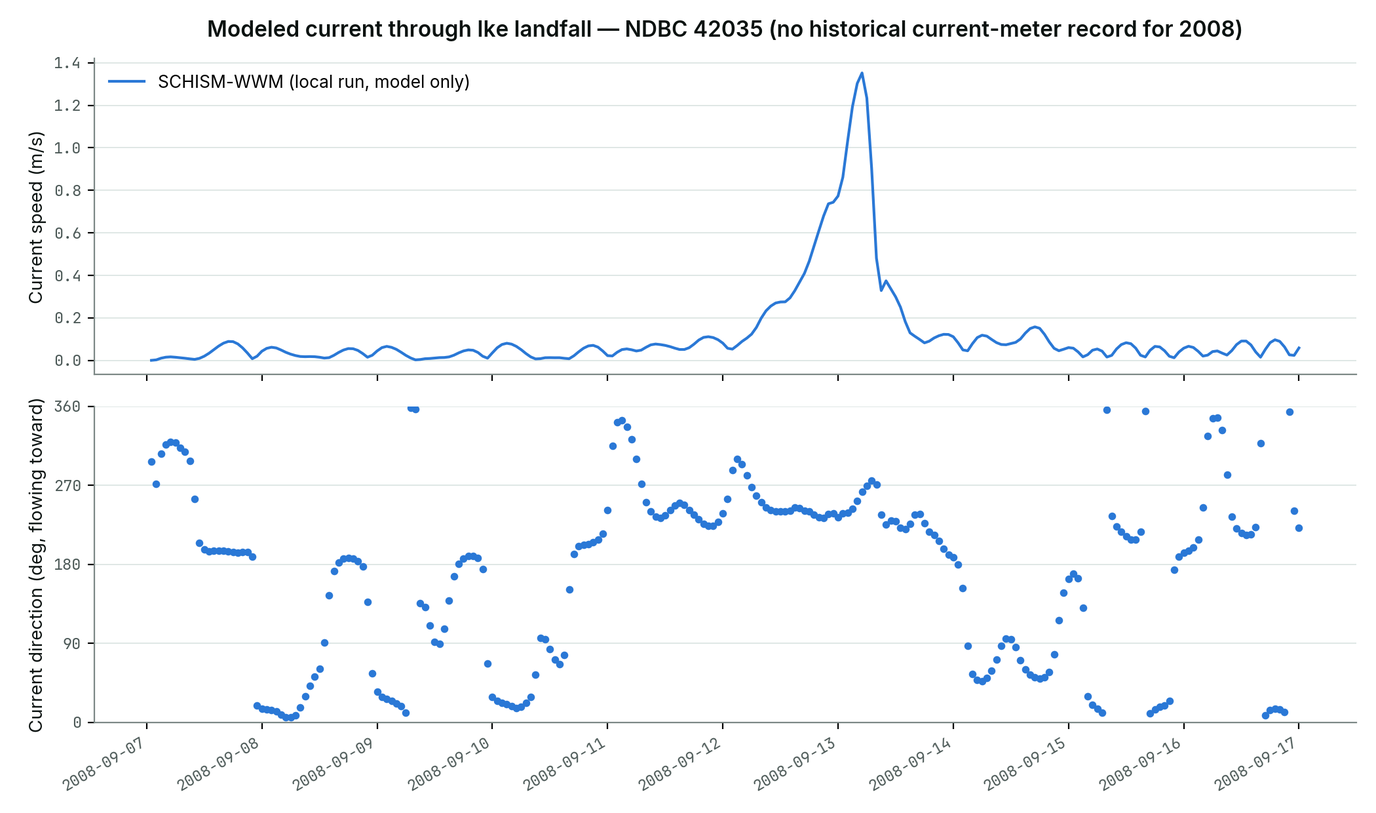
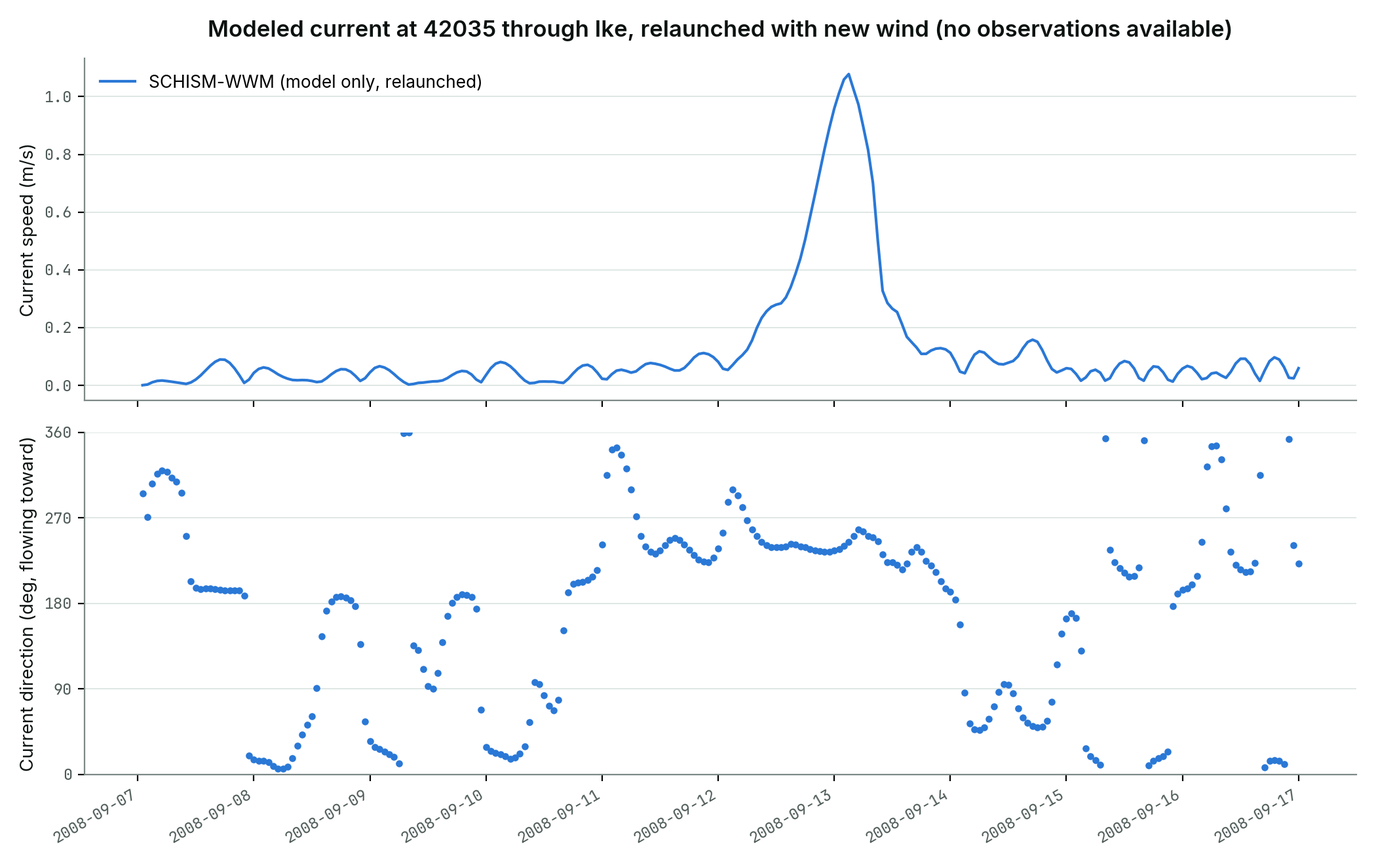
Ike: relaunch local domain with new pywaves GAHM+ERA5 wind
Cuts peak-wind RMSE at NDBC 42035 by ~40% (53->34 m/s vs 27.9 observed),
but the local storm-surge peak drops further from observed at every
Galveston gauge (Pier 21: 88%->66% of the recorded peak). The old,
overly strong wind was an accidental compensating error masking a
separate surge shortfall; fixing the wind exposed it instead of closing
it. Local wave height barely changes (r 0.876->0.889), since the
run's wave-boundary spectra still come from the original, pre-cap-fix
Gulf-parent run.

Claude-Session: https://claude.ai/code/session_019HhJ14FLY5shXvj8i5ta22

diff --git a/site/content/portfolio/independent-projects/hurricane-ike-schism-wwm-nested-validation.md b/site/content/portfolio/independent-projects/hurricane-ike-schism-wwm-nested-validation.md
@@ -3,8 +3,8 @@ title: "Coupled Wave-Surge Model Validation: Hurricane Ike (SCHISM-WWM)"
 date: 2026-01-01
 description: "A nested Gulf-of-Mexico-to-Galveston SCHISM-WWM hindcast of Hurricane Ike (2008): wave, wind, current, and datum-corrected storm-surge validation at Gulf buoys and Galveston gauges, a wind-forcing bug whose fix repaired the storm's structure but not its intensity, and an offshore-boundary fix that recovered lost wave energy."
 challenge: "Ike was a much larger, more intense storm than Harvey, and reusing wind-forcing and boundary settings tuned for Harvey without re-checking them against a storm of a very different character risked quietly wrong results rather than an obvious crash."
-approach: "Ran the same nested-domain strategy used for Harvey — a Gulf-of-Mexico regional SCHISM-WWM hindcast feeding a high-resolution local Galveston domain — against Hurricane Ike, and checked every stage against eight Gulf NDBC buoys, NDBC buoy 42035 and the local CO-OPS water-level network. ADCIRC-SWAN is not included here: that companion run has not yet completed successfully for Ike."
-result: "Found a real wind-forcing bug (a safety cap tuned for Harvey applied to a very different storm). The fix restores the eye lull and the timing of the wind maximum, but modeled winds near the storm core are still about 1.7–1.9x too strong. Across eight Gulf buoys the wave field is well captured in timing and shape (correlation 0.93–0.99 at seven), with peaks close on the shelf and slope but 40–47% too high at the two open-ocean buoys nearest the core. Wind speed and direction, peak wave period and mean wave direction at the Gulf buoys are also captured well (wind and Tp correlation mostly 0.85–0.98, direction errors of roughly 10–30°), but the 2D barotropic model cannot reproduce the observed deep-water current at 42002. Local-domain wave height at buoy 42035 correlates well with observations (r=0.88), and storm-surge bias drops substantially once corrected for a bathymetric datum mismatch, reaching about 88% of the recorded peak at Galveston Pier 21. Tidal current at the Bay Entrance is only about half of NOAA's predicted speed — the same shortfall found for Harvey, on a different mesh. The local domain's own simulation still needs to be relaunched with the corrected wind before these numbers reflect that fix too."
+approach: "Ran the same nested-domain strategy used for Harvey — a Gulf-of-Mexico regional SCHISM-WWM hindcast feeding a high-resolution local Galveston domain — against Hurricane Ike, and checked every stage against eight Gulf NDBC buoys, NDBC buoy 42035 and the local CO-OPS water-level network. Later relaunched the local domain with an improved wind blend and rescored it against the same observations. ADCIRC-SWAN is not included here: that companion run has not yet completed successfully for Ike."
+result: "Found a real wind-forcing bug (a safety cap tuned for Harvey applied to a very different storm), then, separately, integrated a better GAHM+ERA5 wind blend shared with this project's SWAN/WW3 workflows and relaunched the local Galveston domain with it. The new local wind cuts peak-wind RMSE at buoy 42035 by about 40% (53 → 34 m/s vs. 27.9 m/s observed). Local wave height still correlates well with observations (r=0.89), but storm surge got *worse*, not better: with the old, overly strong wind the model reached 88% of the recorded peak at Galveston Pier 21; with the corrected, weaker wind it reaches 66%, and every one of five gauges moved further from its observed peak. The old wind's overestimate had been silently compensating for a separate surge shortfall — fixing one bug exposed another. Across eight Gulf buoys (a separate, not-yet-relaunched parent run) the wave field is well captured in timing and shape (correlation 0.93–0.99 at seven), wind and peak-period correlation are mostly 0.85–0.98, and the 2D barotropic model cannot reproduce the observed deep-water current at 42002. Tidal current at the Bay Entrance is still only about half of NOAA's predicted speed — the same shortfall found for Harvey, on a different mesh."
 tags: ["SCHISM", "WWM", "storm surge", "wave modeling", "current validation", "Hurricane Ike", "deep-water wave validation", "wind validation", "nested modeling", "GAHM wind forcing"]
 link: ""
 image: "/img/portfolio/hurricane-ike-schism-wwm/ike_mesh_nested.png"
@@ -22,11 +22,11 @@ The Gulf-of-Mexico run surfaced a real wind-forcing bug: the GAHM vortex model's
 
 The fix makes the cap intensity-aware: when HURDAT2 reports both r50 and r64 wind radii for a quadrant (real evidence of organized hurricane-force structure, which Harvey's stall phase never had), the cap follows an r64-anchored profile fit instead of a flat multiplier — never tighter than the original cap, so Harvey's case is unaffected. Rerunning the Gulf-of-Mexico domain with the fix reproduces the wind lull as Ike's eye passed almost directly over the buoy — confirmed independently by the buoy's own barometric pressure nearly matching HURDAT2's official central pressure at that time — and puts the second wind maximum at the right hour (09:00 UTC against 08:50 observed). It does not fix the intensity. Checked against the forcing files themselves, the modeled peak at 42035 is still about 53 m/s against 27.9 m/s observed, and winds on either side of the lull remain roughly twice the observed values; the same overestimate appears at buoy 42001 (about 52 m/s against 30 m/s), and it is the likely reason the deep-water waves there come out too high, below. So the fix repaired the *structure* of the wind field, not its strength.
 
-The local Galveston domain's own wind field has been regenerated with this same fix, but the local simulation itself hasn't been relaunched yet — so the wave, current, and storm-surge results below all still reflect the pre-fix wind. They're shown as the best currently-available local-domain results, not final validated numbers.
+**Update: the local domain has since been relaunched with a better wind altogether.** Separately from the cap fix above, this project's wind generation was rebuilt around the same GAHM+ERA5 blend used by the SWAN and WW3 workflows (`pywaves.common.gahm`), which fits both the Holland profile's radius and shape parameter per quadrant and caps peak wind at 1.05x the storm's reported intensity rather than 1.25x. At buoy 42035, this cuts the local wind's peak from about 53 m/s (the cap-fixed wind above) to about 34 m/s against 27.9 m/s observed, and its RMSE from 5.2 to 3.2 m/s. The local Galveston domain was relaunched with this wind, and the wave, current, and storm-surge sections below reflect that relaunched run. One thing did *not* change: the run's incoming wave-boundary spectra, generated from the Gulf-of-Mexico parent run's own wave output, still reflect the *original*, pre-cap-fix wind — regenerating them would mean rerunning the 10-day Gulf-of-Mexico domain, which hasn't been done. So the local wind is now good, but part of what crosses the open boundary as waves is still built on the oldest, least accurate wind of the three.
 
 ## Deep-water wave validation across the Gulf
 
-The Gulf-of-Mexico parent run — the domain that feeds the local Galveston mesh — can be checked against NDBC buoys from the open ocean to the shelf. Nine of the ten buoys in the model's station list have 2008 records (42012 doesn't); 42035 is only 15 m deep and is covered by the local-domain validation below. That leaves eight: three in deep water (3,100–3,600 m), two on the continental slope (180–300 m) and three on the shelf (50–85 m). Two versions of the Gulf run are shown, one with the original wind field and one with the wind fix described above. The configuration is otherwise the same, apart from a regenerated wave-boundary file.
+The Gulf-of-Mexico parent run — the domain that feeds the local Galveston mesh — can be checked against NDBC buoys from the open ocean to the shelf. Nine of the ten buoys in the model's station list have 2008 records (42012 doesn't); 42035 is only 15 m deep and is covered by the local-domain validation below. That leaves eight: three in deep water (3,100–3,600 m), two on the continental slope (180–300 m) and three on the shelf (50–85 m). Two versions of the Gulf run are shown, one with the original wind field and one with the wind fix described above. The configuration is otherwise the same, apart from a regenerated wave-boundary file. (This section predates the pywaves wind relaunch described above; the Gulf-of-Mexico parent run itself hasn't been rerun with the newer wind, only the local Galveston domain has — see the local wave, current and storm-surge sections below.)
 
 ![Significant wave height at eight Gulf of Mexico buoys through Hurricane Ike, ordered from deep water to shelf: observed vs SCHISM-WWM with the original and the wind-fixed wind field](/img/portfolio/hurricane-ike-schism-wwm/ike_gulf_hs_buoys.png)
 *Fig. 2 — Significant wave height at eight Gulf buoys, deepest first: observed (black), original-wind run (dashed), wind-fixed run (blue). The statistics in each panel are for the wind-fixed run over Sept 7–17.*
@@ -94,46 +94,50 @@ A disagreement of nearly 180° can also come from a sign or convention error, so
 ## Wave validation: the local domain
 
 ![Significant wave height time series at NDBC buoy 42035 through Hurricane Ike landfall: observed vs SCHISM-WWM local domain run](/img/portfolio/hurricane-ike-schism-wwm/ike_wave_42035_local.png)
-*Fig. 7 — Wave height at buoy 42035 (r=0.88, RMSE 0.82 m, bias −0.27 m). The model tracks the storm's wave buildup and decay well; how the pending wind-fix rerun will change these numbers isn't yet known.*
+*Fig. 7 — Wave height at buoy 42035, relaunched with the new local wind (r=0.89, RMSE 0.80 m, bias −0.28 m). Barely different from the pre-relaunch run (r=0.88, RMSE 0.82 m) — expected, since the boundary spectra feeding this run's incoming wave energy still reflect the old wind (see above), and local wind mainly affects the near-buoy wind-sea component.*
 
 ## Current at the Bay Entrance
 
 No current-meter record exists near Galveston for Ike. I checked all seven CO-OPS current stations near Galveston, including the Bay Entrance Channel meter used for the Harvey comparison, and none has data for September 2008 (that meter dates from 2011). What does exist is NOAA's harmonic, tide-only current prediction for the same station. Predictions aren't observations, but they can be checked: on Harvey's tide-only days (Aug 21–24, 2017) the prediction matches the real current-meter record closely — mean speed 0.38 m/s predicted against 0.42 m/s observed, correlation 0.93. That makes it a fair benchmark for Ike's own tide-only days, Sept 7–10, before the storm's effects reach the coast.
 
 ![Current speed at the Galveston Bay Entrance Channel through Hurricane Ike: SCHISM-WWM local domain vs NOAA's tide-only prediction, with the model's tide-averaged flow along the channel below](/img/portfolio/hurricane-ike-schism-wwm/ike_current_entrance.png)
-*Fig. 8 — Current at the Bay Entrance Channel. Top: SCHISM-WWM (2D, depth-averaged) against NOAA's tide-only prediction. Bottom: the model's tide-averaged flow along the channel, positive out of the bay (model only). Over the tide-only days (shaded) the model's mean speed is 0.23 m/s against 0.47 m/s predicted — half — with a correlation of 0.77.*
+*Fig. 8 — Current at the Bay Entrance Channel, relaunched run. Top: SCHISM-WWM (2D, depth-averaged) against NOAA's tide-only prediction. Bottom: the model's tide-averaged flow along the channel, positive out of the bay (model only). Over the tide-only days (shaded) the model's mean speed is 0.23 m/s against 0.47 m/s predicted — half — with a correlation of 0.77, unchanged from the pre-relaunch run: this window is well before landfall, where the new and old wind are nearly identical.*
 
-That is the same shortfall found on the [Harvey page](/portfolio/independent-projects/wave-surge-model-intercomparison/) (0.48 of the observed speed there), and it appears here on a different local mesh. Short reruns of the Harvey setup point to the model's smoothing settings (a Shapiro filter and horizontal viscosity) as the main cause, and this run uses the same settings. Once the storm arrives there is nothing to score the model against. It shows the bay filling before landfall (tide-averaged flow reaching about 0.28 m/s into the bay), a brief speed spike near 1.0 m/s at landfall, and a drain of about 0.45 m/s out of the bay on Sept 14. The run has no river or rainfall inflow — the term that was largely missing for Harvey's storm-time outflow — and how large it would be for Ike is unknown, so those storm-time magnitudes are model-only numbers, not validated ones.
+That is the same shortfall found on the [Harvey page](/portfolio/independent-projects/wave-surge-model-intercomparison/) (0.48 of the observed speed there), and it appears here on a different local mesh. Short reruns of the Harvey setup point to the model's smoothing settings (a Shapiro filter and horizontal viscosity) as the main cause, and this run uses the same settings. Once the storm arrives there is nothing to score the model against; with the new wind the storm-time numbers are somewhat smaller than before — the bay fills to about 0.21 m/s into the bay (was 0.28), a peak instantaneous speed of 0.96 m/s near landfall (was about 1.0), and a drain of about 0.40 m/s out of the bay on Sept 14 (was 0.45). The run has no river or rainfall inflow — the term that was largely missing for Harvey's storm-time outflow — and how large it would be for Ike is unknown, so those storm-time magnitudes are model-only numbers, not validated ones.
 
 ## Storm surge: correcting the reference level
 
 The raw model-vs-observed water-level comparison carried a substantial negative bias at every station — up to 0.87 m at the worst one. Part of that traces to a genuine bathymetric datum mismatch: NOAA's Coastal Relief Model, despite being labeled MSL/EGM2008, retains its original bathymetric source data referenced to MLLW/MLW instead. Pulling each station's own MSL−MLLW offset from CO-OPS's datum API (0.18–0.30 m depending on station) and applying it to the model's output — shifting it onto the same MSL reference the observations use — recovers a substantial share of that bias.
 
-![Bar chart comparing storm-surge bias before and after the bathymetric-datum correction, 5 Galveston-area CO-OPS stations, Hurricane Ike](/img/portfolio/hurricane-ike-schism-wwm/ike_wlev_bias_correction.png)
-*Fig. 9 — Storm-surge bias before and after the datum correction, all 5 available stations. The correction cuts bias by roughly 25–50% (about 45–48% at Morgans Point, the Bay Entrance and Pier 21, 26% at Rollover Pass and Eagle Point) — a real, mechanical fix, not a tuning knob — though a negative bias remains at every station.*
+**Fixing the wind made the surge worse, not better — an important, honest finding.** With the old, overly strong wind, the model happened to reach 88% of the recorded surge peak at Pier 21. With the corrected, weaker local wind, it reaches only 66%, and the gap widens at every one of the five gauges. The old wind's excess strength had been an accidental, compensating error, silently making up for a separate surge shortfall the model has independent of the wind. Removing the wind bias exposes that shortfall rather than fixing it.
 
-| Station | Offset applied | Bias (raw → corrected) | RMSE (raw → corrected) | Corr |
+![Bar chart comparing observed, pre-relaunch, and relaunched storm-surge peaks at 5 Galveston-area CO-OPS stations, Hurricane Ike, datum-corrected](/img/portfolio/hurricane-ike-schism-wwm/ike_wlev_bias_correction.png)
+*Fig. 9 — Peak storm-surge water level, datum-corrected: observed vs. the pre-relaunch (old wind) and relaunched (new wind) runs. The new wind's peak is lower than the old wind's peak at every station, moving further from the observed value in each case.*
+
+| Station | Offset applied | Bias, raw → corrected (relaunched) | RMSE, raw → corrected (relaunched) | Corr (relaunched) | Corr (pre-relaunch) |
+|---|---|---|---|---|---|
+| Morgans Point | +0.22 m | −0.63 → −0.41 m | 0.90 → 0.76 m | 0.23 | 0.80 |
+| Rollover Pass | +0.23 m | −1.68 → −1.45 m | 2.12 → 1.95 m | 0.37 | 0.04 |
+| Eagle Point | +0.18 m | −0.72 → −0.53 m | 0.83 → 0.68 m | 0.89 | 0.90 |
+| Bay Entrance (N. Jetty) | +0.30 m | −1.39 → −1.10 m | 1.75 → 1.53 m | 0.35 | 0.87 |
+| Galveston Pier 21 | +0.25 m | −0.62 → −0.37 m | 0.68 → 0.47 m | 0.95 | 0.93 |
+
+Bias and RMSE got worse, not just the peak — the datum correction still helps by the same mechanical amount, but there's more error left for it to correct. Correlation moved in different directions by station, and not always for a reason I can explain. At Pier 21 and Eagle Point it stayed about the same or improved slightly; at Morgans Point it collapsed from 0.80 to 0.23, but that station's peak is tiny either way (0.24–0.34 m modeled against 2.55 m observed, see the peak table below), so its correlation was always the timing of a small, noisy signal. At the Bay Entrance, though, correlation fell from 0.87 to 0.35 despite a real, multi-meter signal — I don't have an explanation for that yet, and I'm reporting it rather than papering over it. Rollover Pass barely responds at all in either run — the same station that barely responds in the Harvey local run (see the [companion write-up](/portfolio/independent-projects/wave-surge-model-intercomparison/)), which suggests, though it hasn't been confirmed, that the cause is how the mesh represents these bay-head locations rather than the storm or the wind.
+
+| Station | Observed peak (MSL) | Peak, pre-relaunch → relaunched | Peak captured, pre-relaunch → relaunched | Peak timing, relaunched (model − obs) |
 |---|---|---|---|---|
-| Morgans Point | +0.22 m | −0.46 → −0.24 m | 0.63 → 0.49 m | 0.80 |
-| Rollover Pass | +0.23 m | −0.87 → −0.65 m | 1.17 → 1.01 m | 0.04 |
-| Eagle Point | +0.18 m | −0.72 → −0.53 m | 0.83 → 0.68 m | 0.90 |
-| Bay Entrance (N. Jetty) | +0.30 m | −0.62 → −0.32 m | 0.70 → 0.46 m | 0.87 |
-| Galveston Pier 21 | +0.25 m | −0.56 → −0.31 m | 0.64 → 0.43 m | 0.93 |
+| Galveston Pier 21 | 2.86 m (Sep 13, 03:00; 5-hour gap in the record around it) | 2.52 → 1.89 m | 88% → 66% | +6 h |
+| Eagle Point | 3.33 m (Sep 13, 06:00) | 1.89 → 1.42 m | 57% → 43% | +0 h |
+| Morgans Point | 2.55 m (Sep 13, 07:00) | 0.34 → 0.24 m | 13% → 9% | +0 h |
+| Bay Entrance (N. Jetty) | gauge failed around 02:00 on Sep 13, before the peak | 2.90 → 2.24 m | not scorable | +8 h |
+| Rollover Pass | record incomplete (156 of 240 hours); its recorded maximum falls on Sep 16, after the storm | 1.78 → 1.59 m | not scorable | −6 h |
 
-Correlation only measures timing, and two of these gauges show why that isn't enough. At Morgans Point the model's peak is only +0.12 m against 2.55 m observed, so its 0.80 correlation is the timing of a tiny signal. Rollover Pass barely responds at all — the same station that barely responds in the Harvey local run (see the [companion write-up](/portfolio/independent-projects/wave-surge-model-intercomparison/)), which suggests, though it hasn't been confirmed, that the cause is how the mesh represents these bay-head locations rather than the storm. The peak water levels show the rest:
+Observed peaks at gauges that failed or have gaps near the peak are lower bounds, so the captured fractions above are, if anything, generous to the model. At the open-coast gauge with a nearly complete record, Pier 21, the relaunched model reaches two-thirds of the surge, down from most of it; on the bay's own shore at Eagle Point it reaches less than half, against about 83% at the same gauge for Harvey. The two bay-head gauges fail in both storms and both wind versions.
 
-| Station | Observed peak (MSL) | Model peak, raw → datum-corrected | Peak captured | Peak timing (model − obs) |
-|---|---|---|---|---|
-| Galveston Pier 21 | 2.86 m (Sep 13, 03:00; 5-hour gap in the record around it) | 2.27 → 2.52 m | 88% | +5 h |
-| Eagle Point | 3.33 m (Sep 13, 06:00) | 1.71 → 1.89 m | 57% | +1 h |
-| Morgans Point | 2.55 m (Sep 13, 07:00) | 0.12 → 0.34 m | 13% | +2 h |
-| Bay Entrance (N. Jetty) | gauge failed around 02:00 on Sep 13, before the peak | 2.60 → 2.90 m | not scorable | — |
-| Rollover Pass | record incomplete (156 of 240 hours); its recorded maximum falls on Sep 16, after the storm | −0.29 → −0.06 m | not scorable | — |
+![Storm-surge water-level time series at Galveston Pier 21 through Hurricane Ike, datum-corrected: observed vs. pre-relaunch and relaunched SCHISM-WWM local domain runs](/img/portfolio/hurricane-ike-schism-wwm/ike_wlev_pier21_corrected.png)
+*Fig. 10 — Storm-surge water level at Galveston Pier 21, datum-corrected (r=0.95, relaunched run). The relaunched model's peak (1.89 m) sits well below both the observed peak (2.86 m) and the pre-relaunch run's peak (2.52 m) — visible confirmation that removing the wind's overestimate removed a real, if inadvertent, source of accuracy.*
 
-Observed peaks at gauges that failed or have gaps near the peak are lower bounds, so the captured fractions for Pier 21 in particular are, if anything, generous. At the open-coast gauge with a nearly complete record, Pier 21, the corrected model reaches most of the surge; on the bay's own shore at Eagle Point it reaches a little over half, against about 83% at the same gauge for Harvey. The two bay-head gauges fail in both storms.
-
-![Storm-surge water-level time series at Galveston Pier 21 through Hurricane Ike, datum-corrected: observed vs. SCHISM-WWM local domain run](/img/portfolio/hurricane-ike-schism-wwm/ike_wlev_pier21_corrected.png)
-*Fig. 10 — Storm-surge water level at Galveston Pier 21, datum-corrected (r=0.93). The corrected model reaches about 88% of the recorded peak (2.52 vs. 2.86 m), about five hours late, though the gauge has a five-hour gap around the peak. Whether the pending wind-fix rerun raises or lowers this is not yet known: the old wind bug overestimated wind at the offshore buoy, which would push surge up, not down.*
+That leaves an open question this write-up doesn't answer: something other than wind strength is holding this run's surge peak down at every gauge, by roughly a third to a half once the datum and the wind are both corrected. Candidates include the same smoothing settings (Shapiro filter, horizontal viscosity) flagged for the weak tidal current below, the stale wave-boundary spectra noted above, or a genuine gap in the surge physics; distinguishing between them needs more runs than this one.
 
 ## Fixing the offshore boundary
 
@@ -152,6 +156,6 @@ Diagnosing this also surfaced a separate, genuine finding, not a bug: raw retent
 
 ## Where this leaves the project
 
-The wind-forcing fix has repaired the *structure* of the Gulf-scale wind field (the eye lull and the timing of the second maximum), but winds near the storm core are still about 1.7–1.9x too strong, which shows up as too-high waves at the deep buoys. The offshore-boundary fix has already been carried into the mesh used throughout, and the datum correction resolves a real, mechanical share of the surge bias. What remains: correcting the wind intensity near the core, relaunching the local Galveston domain against the corrected wind field so wave, current, and storm-surge numbers all reflect it, and getting ADCIRC-SWAN's Ike setup past its current instability so a full two-model comparison — like the one already done for Harvey — becomes possible for this storm too. Two problems shared with the Harvey local run also remain open: tidal currents at the Bay Entrance are about half of the predicted speed, and the bay-head gauges at Morgans Point and Rollover Pass barely respond. In deep water, the 2D barotropic run cannot reproduce the observed ambient current at all (checked at 42002), so any deep-water current validation would need a 3D baroclinic run with ocean boundary data.
+The Gulf-scale wind-forcing fix repaired the *structure* of the wind field (the eye lull and the timing of the second maximum) but not its strength near the core, which still shows up as too-high waves at the deep buoys there — that comparison hasn't been rerun since. On the local domain, a further, independent wind improvement (the pywaves GAHM+ERA5 blend, shared with this project's SWAN and WW3 workflows) cut peak-wind error at buoy 42035 by about 40%, and the local domain has now been relaunched with it. That relaunch produced this write-up's most important finding: fixing the wind made the local storm surge *worse* at every gauge, because the old wind's overestimate had been silently compensating for a separate surge deficit. What the relaunched run reaches is still substantial — two-thirds of the observed peak at Pier 21 — but the search for that separate deficit (candidates: the smoothing settings noted below, the still-stale wave-boundary spectra, or a genuine gap in the surge physics) is now the real open problem, ahead of correcting the Gulf-scale wind intensity or regenerating the boundary spectra from a rerun Gulf parent domain. Getting ADCIRC-SWAN's Ike setup past its current instability, so a full two-model comparison like the one already done for Harvey becomes possible for this storm too, also remains open. Two problems shared with the Harvey local run also remain open: tidal currents at the Bay Entrance are about half of the predicted speed, and the bay-head gauges at Morgans Point and Rollover Pass barely respond. In deep water, the 2D barotropic run cannot reproduce the observed ambient current at all (checked at 42002), so any deep-water current validation would need a 3D baroclinic run with ocean boundary data.
 
 *Model: [SCHISM](https://www.schism-dev.org/)+[WWM](https://wwm-model.org/). Forcing: GAHM-parametric wind field from HURDAT2 best-track data. Validation: NOAA CO-OPS water-level stations and NDBC buoys.*
